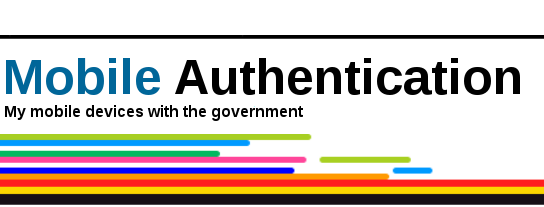
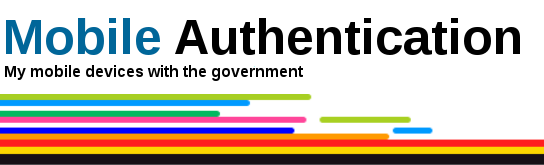
layout should be quite complete now, I only need to change the click on user for extra information to click this to browse to gov sites and make the user fill in a PIN code to proceed to the browser w certificates

diff --git a/mobile/www/index.html b/mobile/www/index.html
@@ -85,7 +85,7 @@
         <div class="content">
             <a class="btn btn-primary btn-block" href="#inputNormalCode">Type in the code</a>
             <a class="btn btn-block" href="#scannerView">Scan the QR code</a>
-            <a class="btn btn-negative btn-block">Cancel</a>
+            <a class="btn btn-negative btn-block" href="#">Cancel</a>
         </div>
     </script>
 
@@ -99,6 +99,25 @@
             <form>
               <input type="text" placeholder="Code" id="normalCodeInput">
               <a class="btn btn-primary btn-block" id="normalCode">Submit</a>
+              <a class="btn btn-negative btn-block" href="#">Cancel</a>
+            </form>
+            <div id="load_gif" style="display:none">
+                <img media="screen" class="media-object" src="assets/ajax-loader.gif">
+            </div>
+        </div>
+    </script>
+
+    <script id="input-QR-code-tpl" type="text/template">
+        <header class="bar bar-nav navbar">
+            <div class="navbar-inner">
+            </div>
+            <h3>Paste your scanned code</h3>
+        </header>
+        <div class="content">
+            <form>
+              <input type="text" placeholder="Code" id="normalCodeInput">
+              <a class="btn btn-primary btn-block" id="normalCode">Submit</a>
+              <a class="btn btn-negative btn-block" href="#">Cancel</a>
             </form>
             <div id="load_gif" style="display:none">
                 <img media="screen" class="media-object" src="assets/ajax-loader.gif">
@@ -107,11 +126,9 @@
     </script>
 
     <script id="app-browser-tpl" type="text/template">
-
     </script>
 
     <script id="scanner-view-tpl" type="text/template">
-
     </script>
 
     <script src="cordova.js"></script>

diff --git a/mobile/www/js/app.js b/mobile/www/js/app.js
@@ -48,6 +48,7 @@ function deleteUser(buttonIndex, username) {
     UserView.prototype.template = Handlebars.compile($("#user-tpl").html());
     NewUserView.prototype.templateChoiceScreen = Handlebars.compile($("#choice-screen-tpl").html());
     NewUserView.prototype.templateInputNormalCode = Handlebars.compile($("#input-normal-code-tpl").html());
+    NewUserView.prototype.templateInputQRCode = Handlebars.compile($("#input-QR-code-tpl").html());
     AppBrowserView.prototype.template = Handlebars.compile($("#app-browser-tpl").html());
     ScannerView.prototype.template = Handlebars.compile($("#scanner-view-tpl").html());
 
@@ -70,6 +71,10 @@ function deleteUser(buttonIndex, username) {
 
         router.addRoute('inputNormalCode', function() {
             $('body').html(new NewUserView(service).renderInputNormalCodeScreen().$el);
+        });
+
+        router.addRoute('inputQRCode', function() {
+            $('body').html(new NewUserView(service).renderInputQRCodeScreen().$el);
         });
 
         router.addRoute('appBrowser', function() {

diff --git a/mobile/www/js/ScannerView.js b/mobile/www/js/ScannerView.js
@@ -8,16 +8,16 @@ var ScannerView = function () {
     this.render = function() {
         cordova.plugins.barcodeScanner.scan(
             function(result) {
-                alert("we got a barcode\n" +
-                    "result: " + result.text + "\n" +
-                    "format: " + result.format + "\n" +
-                    "cancelled " + result.cancelled);
+                window.location.href = $(location).attr('pathname') + "#inputQRCode";
+                window.document.getElementById("normalCodeInput").value = result.text;
+                window.document.getElementById("normalCodeInput").placeholder = result.text;
+                //$("#normalCodeInput").val(result.text);
             },
             function(error) {
                 alert("scanning failed: " + error);
+                window.location.href = $(location).attr('pathname');
             }
         );
-        this.$el.html(this.template());
         return this;
     };
 

diff --git a/mobile/www/assets/css/styles.css b/mobile/www/assets/css/styles.css
@@ -2,15 +2,16 @@ header.navbar {
     background-image: url(images/frame2.png);
     background-repeat: no-repeat;
     background-position: center;
-    -webkit-background-size: 100%;
-    -o-background-size: 100%;
+    -webkit-background-size: 100% 100%;
+    -o-background-size: 100% 100%;
     background-size: 100%;
-    height: 80px;
+    height: 95px !important;
     position: absolute;
+    background-color: red !important;
 }
 
 .navbar-inner {
-    padding-top: 90px;
+    padding-top: 95px;
 }
 
 ul {

diff --git a/mobile/www/js/NewUserView.js b/mobile/www/js/NewUserView.js
@@ -132,5 +132,10 @@ var NewUserView = function(service) {
 		return this;
 	}
 
+    this.renderInputQRCodeScreen = function() {
+        this.$el.html(this.templateInputQRCode());
+        return this;
+    }
+
 	this.initialize();
 }
